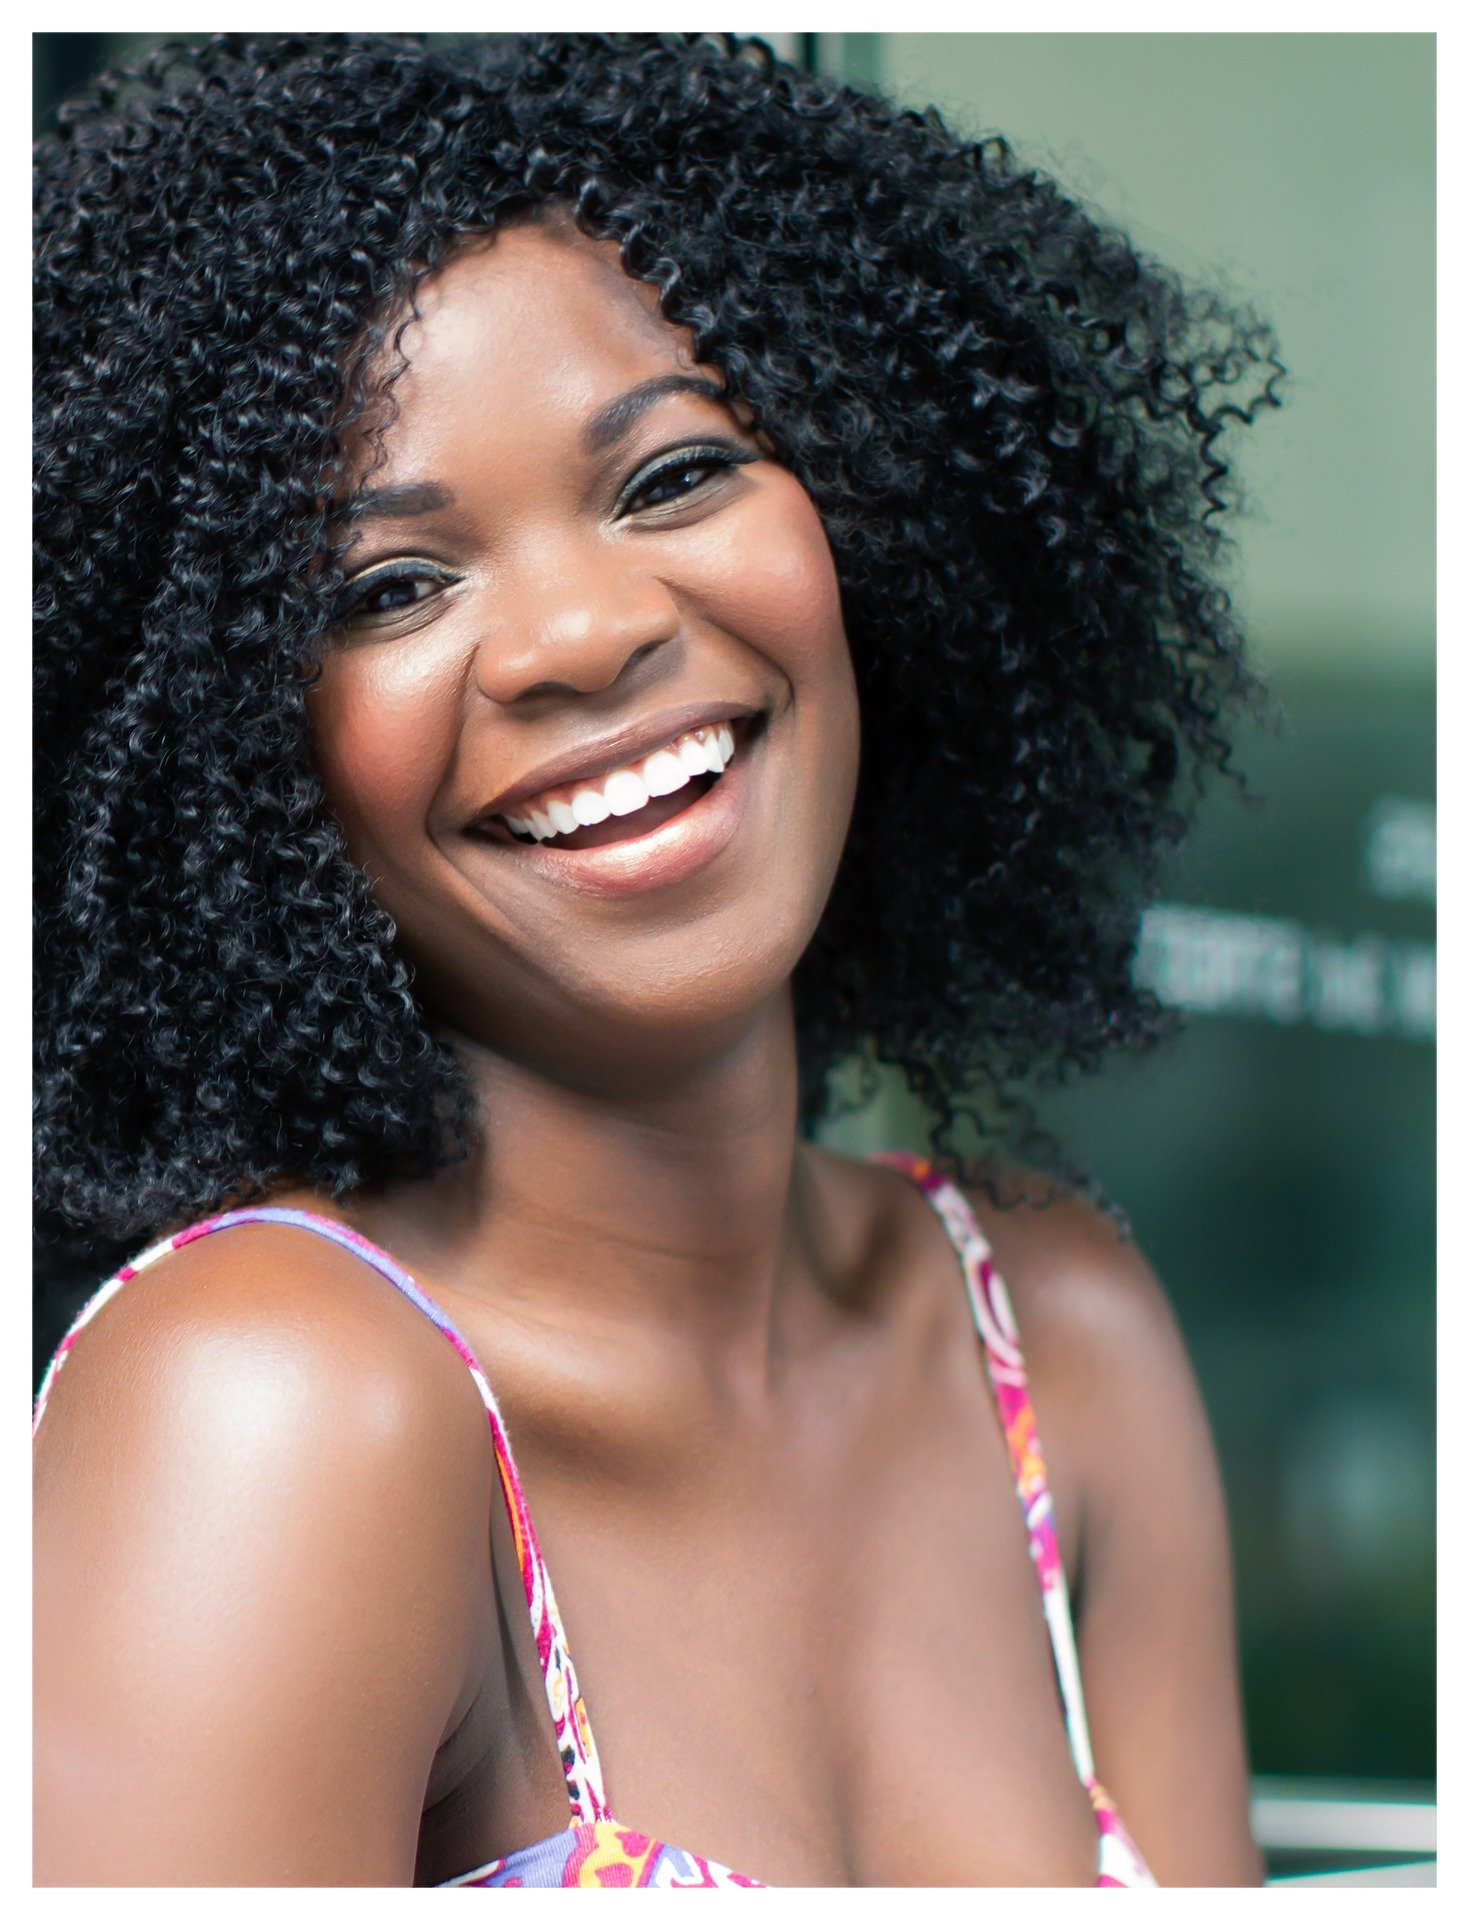
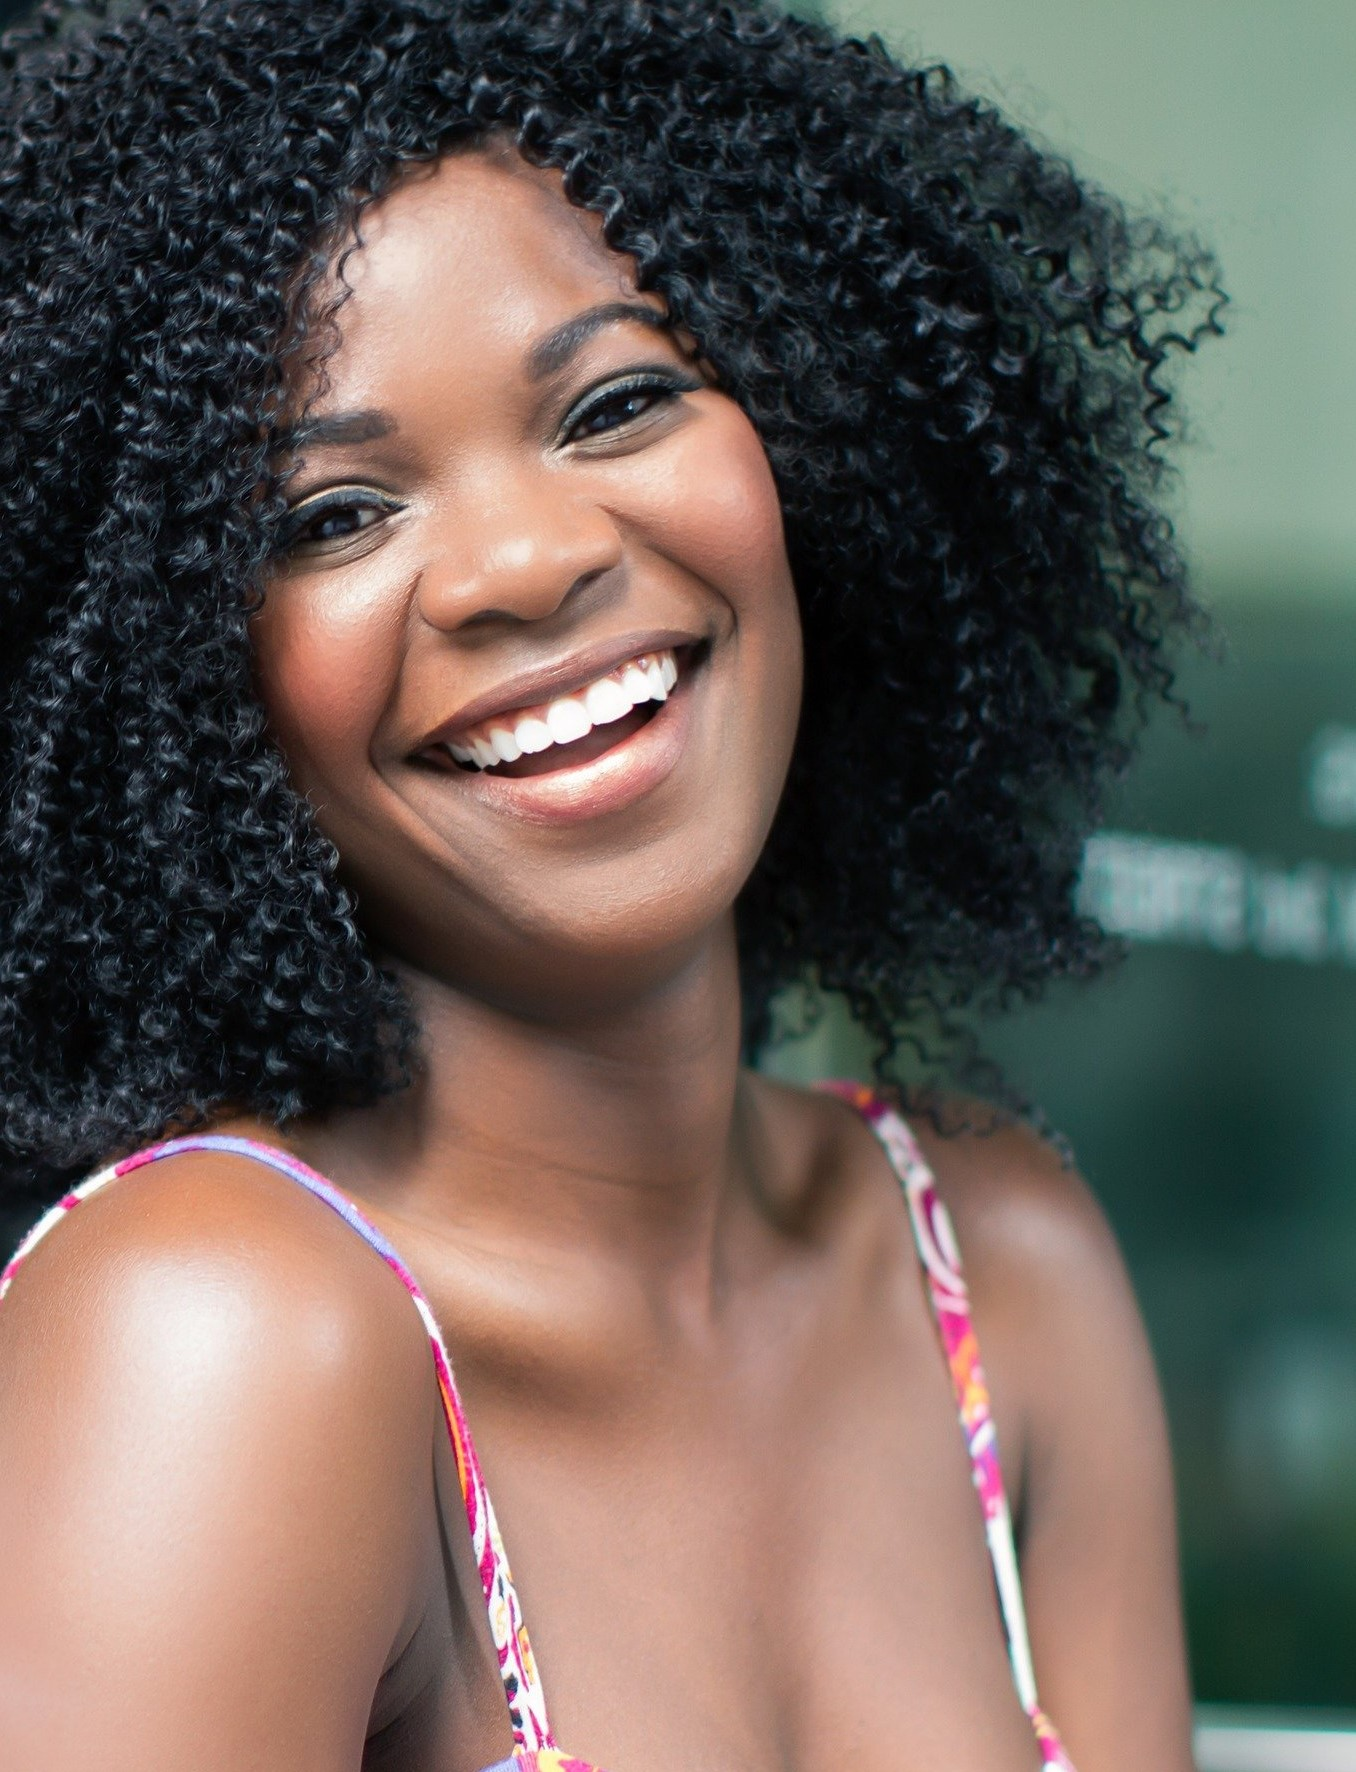
update on artist individual pages

diff --git a/styles/_artists.css b/styles/_artists.css
@@ -1,1 +1,1 @@
-body{max-width:1440px;width:100%;margin:auto;background-color:black}.artists__main{max-width:100%;color:white;display:-webkit-box;display:-ms-flexbox;display:flex;-webkit-box-orient:vertical;-webkit-box-direction:normal;-ms-flex-direction:column;flex-direction:column;-webkit-box-align:center;-ms-flex-align:center;align-items:center;-webkit-box-pack:justify;-ms-flex-pack:justify;justify-content:space-between}.artists__main-artist{max-width:63.3%;-webkit-box-sizing:border-box;box-sizing:border-box;margin-top:15px;display:-ms-grid;display:grid;-ms-grid-columns:50% 30px 50%;grid-template-columns:repeat(2,50%);-ms-grid-rows:450px 30px 450px 30px 450px 30px 450px 30px 450px 30px 450px 30px 450px 30px 450px 30px 450px 30px 450px 30px 450px 30px 450px 30px 450px;grid-template-rows:repeat(13,450px);grid-gap:30px;margin-top:50px}.artists__main-artist>:first-child{-ms-grid-row:1;-ms-grid-column:1}.artists__main-artist>:nth-child(2){-ms-grid-row:1;-ms-grid-column:3}.artists__main-artist>:nth-child(3){-ms-grid-row:3;-ms-grid-column:1}.artists__main-artist>:nth-child(4){-ms-grid-row:3;-ms-grid-column:3}.artists__main-artist>:nth-child(5){-ms-grid-row:5;-ms-grid-column:1}.artists__main-artist>:nth-child(6){-ms-grid-row:5;-ms-grid-column:3}.artists__main-artist>:nth-child(7){-ms-grid-row:7;-ms-grid-column:1}.artists__main-artist>:nth-child(8){-ms-grid-row:7;-ms-grid-column:3}.artists__main-artist>:nth-child(9){-ms-grid-row:9;-ms-grid-column:1}.artists__main-artist>:nth-child(10){-ms-grid-row:9;-ms-grid-column:3}.artists__main-artist>:nth-child(11){-ms-grid-row:11;-ms-grid-column:1}.artists__main-artist>:nth-child(12){-ms-grid-row:11;-ms-grid-column:3}.artists__main-artist>:nth-child(13){-ms-grid-row:13;-ms-grid-column:1}.artists__main-artist>:nth-child(14){-ms-grid-row:13;-ms-grid-column:3}.artists__main-artist>:nth-child(15){-ms-grid-row:15;-ms-grid-column:1}.artists__main-artist>:nth-child(16){-ms-grid-row:15;-ms-grid-column:3}.artists__main-artist>:nth-child(17){-ms-grid-row:17;-ms-grid-column:1}.artists__main-artist>:nth-child(18){-ms-grid-row:17;-ms-grid-column:3}.artists__main-artist>:nth-child(19){-ms-grid-row:19;-ms-grid-column:1}.artists__main-artist>:nth-child(20){-ms-grid-row:19;-ms-grid-column:3}.artists__main-artist>:nth-child(21){-ms-grid-row:21;-ms-grid-column:1}.artists__main-artist>:nth-child(22){-ms-grid-row:21;-ms-grid-column:3}.artists__main-artist>:nth-child(23){-ms-grid-row:23;-ms-grid-column:1}.artists__main-artist>:nth-child(24){-ms-grid-row:23;-ms-grid-column:3}.artists__main-artist>:nth-child(25){-ms-grid-row:25;-ms-grid-column:1}.artists__main-artist>:nth-child(26){-ms-grid-row:25;-ms-grid-column:3}.artists__main-artist .img-left{-ms-grid-column:1;-ms-grid-column-span:1;grid-column:1/2}.artists__main-artist .img-right{-ms-grid-column:2;-ms-grid-column-span:1;grid-column:2/3}.artists__main-artist .txt-right{-ms-grid-column:2;-ms-grid-column-span:1;grid-column:2/3;-ms-grid-row-align:center;align-self:center}.artists__main-artist .txt-left{-ms-flex-item-align:center;-ms-grid-row-align:center;align-self:center}.artists__main-artist--container-blocks{max-width:45%;-webkit-box-sizing:border-box;box-sizing:border-box}.artists__main-artist--photo{max-width:400px;max-height:400px;border-radius:50%;margin-top:10px}.artists__main-artist a{text-decoration:none;color:white}.artists__main-artist a:hover{color:blue}
+body{max-width:1440px;width:100%;margin:auto;background-color:black;color:white}.artists__main{max-width:100%;color:white;display:-webkit-box;display:-ms-flexbox;display:flex;-webkit-box-orient:vertical;-webkit-box-direction:normal;-ms-flex-direction:column;flex-direction:column;-webkit-box-align:center;-ms-flex-align:center;align-items:center;-webkit-box-pack:justify;-ms-flex-pack:justify;justify-content:space-between}.artists__main-artist{max-width:63.3%;-webkit-box-sizing:border-box;box-sizing:border-box;margin-top:15px;display:-ms-grid;display:grid;-ms-grid-columns:50% 30px 50%;grid-template-columns:repeat(2,50%);-ms-grid-rows:450px 30px 450px 30px 450px 30px 450px 30px 450px 30px 450px 30px 450px 30px 450px 30px 450px 30px 450px 30px 450px 30px 450px 30px 450px;grid-template-rows:repeat(13,450px);grid-gap:30px;margin-top:50px}.artists__main-artist>:first-child{-ms-grid-row:1;-ms-grid-column:1}.artists__main-artist>:nth-child(2){-ms-grid-row:1;-ms-grid-column:3}.artists__main-artist>:nth-child(3){-ms-grid-row:3;-ms-grid-column:1}.artists__main-artist>:nth-child(4){-ms-grid-row:3;-ms-grid-column:3}.artists__main-artist>:nth-child(5){-ms-grid-row:5;-ms-grid-column:1}.artists__main-artist>:nth-child(6){-ms-grid-row:5;-ms-grid-column:3}.artists__main-artist>:nth-child(7){-ms-grid-row:7;-ms-grid-column:1}.artists__main-artist>:nth-child(8){-ms-grid-row:7;-ms-grid-column:3}.artists__main-artist>:nth-child(9){-ms-grid-row:9;-ms-grid-column:1}.artists__main-artist>:nth-child(10){-ms-grid-row:9;-ms-grid-column:3}.artists__main-artist>:nth-child(11){-ms-grid-row:11;-ms-grid-column:1}.artists__main-artist>:nth-child(12){-ms-grid-row:11;-ms-grid-column:3}.artists__main-artist>:nth-child(13){-ms-grid-row:13;-ms-grid-column:1}.artists__main-artist>:nth-child(14){-ms-grid-row:13;-ms-grid-column:3}.artists__main-artist>:nth-child(15){-ms-grid-row:15;-ms-grid-column:1}.artists__main-artist>:nth-child(16){-ms-grid-row:15;-ms-grid-column:3}.artists__main-artist>:nth-child(17){-ms-grid-row:17;-ms-grid-column:1}.artists__main-artist>:nth-child(18){-ms-grid-row:17;-ms-grid-column:3}.artists__main-artist>:nth-child(19){-ms-grid-row:19;-ms-grid-column:1}.artists__main-artist>:nth-child(20){-ms-grid-row:19;-ms-grid-column:3}.artists__main-artist>:nth-child(21){-ms-grid-row:21;-ms-grid-column:1}.artists__main-artist>:nth-child(22){-ms-grid-row:21;-ms-grid-column:3}.artists__main-artist>:nth-child(23){-ms-grid-row:23;-ms-grid-column:1}.artists__main-artist>:nth-child(24){-ms-grid-row:23;-ms-grid-column:3}.artists__main-artist>:nth-child(25){-ms-grid-row:25;-ms-grid-column:1}.artists__main-artist>:nth-child(26){-ms-grid-row:25;-ms-grid-column:3}.artists__main-artist .img-left{-ms-grid-column:1;-ms-grid-column-span:1;grid-column:1/2}.artists__main-artist .img-right{-ms-grid-column:2;-ms-grid-column-span:1;grid-column:2/3}.artists__main-artist .txt-right{-ms-grid-column:2;-ms-grid-column-span:1;grid-column:2/3;-ms-grid-row-align:center;align-self:center}.artists__main-artist .txt-left{-ms-flex-item-align:center;-ms-grid-row-align:center;align-self:center}.artists__main-artist--container-blocks{max-width:45%;-webkit-box-sizing:border-box;box-sizing:border-box}.artists__main-artist--photo{max-width:400px;max-height:400px;border-radius:50%;margin-top:10px}.artists__main-artist a{text-decoration:none;color:white;-webkit-transition:0.3s ease-in-out;transition:0.3s ease-in-out}.artists__main-artist a:hover{color:#59C9A5;-webkit-transform:scale(1.1);transform:scale(1.1)}.artists__main-artist img{-webkit-transition:0.3s ease-in-out;transition:0.3s ease-in-out}.artists__main-artist img:hover{-webkit-transform:scale(1.01);transform:scale(1.01)}.artist-page__main{background-image:url(../images/artists/artist-01.jpg);background-size:cover;background-color:rgba(0,0,0,0.9);display:-ms-grid;display:grid;-ms-grid-columns:(50%)[2];grid-template-columns:repeat(2,50%)}.artist-page__main-info{display:-ms-grid;display:grid;-ms-grid-columns:(50%)[2];grid-template-columns:repeat(2,50%)}.artist-page-img{max-height:100vh;height:100%;position:sticky}

diff --git a/pages/artists/artist-01.html b/pages/artists/artist-01.html
@@ -5,17 +5,23 @@
     <meta http-equiv="X-UA-Compatible" content="IE=edge">
     <meta name="viewport" content="width=device-width, initial-scale=1.0">
     <link rel="stylesheet" href="../../styles/normalize.css">
-    <link rel="stylesheet" href="../../styles/index.css">
+    <link rel="stylesheet" href="../../styles/_artists-page.css">
     <title>IRIS PRIEST</title>
 </head>
 <body>
+    <section class="artist-page__main">    
     
-    <section class="artist-page__main">
-        <div class="artist-page__main-info">
-            <img src="../../images/artists/artist-01.jpg" alt="" class="artist-page__main-info--image">
-            <h1 class="artist-page__main-info--title">
+    <img src="../../images/artists/artist-page-01.jpg" alt="" class="artist-page-img">
+
+
+    
+            <h1 class="artist-page__main-title">
                 Iris Priest
-            </h1>
+            </h1>    
+            
+        <div class="artist-page__main-info">        
+        
+
             <h3 class="artist-page__main-info--text">
                 Lorem, ipsum dolor sit amet consectetur adipisicing elit. 
                 Placeat quidem, quae nobis, veritatis corporis delectus est qui 

diff --git a/styles/_artists.scss b/styles/_artists.scss
@@ -3,6 +3,7 @@ body {
     width: 100%;
     margin: auto;
     background-color: black;
+    color: white;
 }
 
 .artists__main {
@@ -55,11 +56,46 @@ body {
             a {
                 text-decoration: none;
                 color: white;
+                transition: 0.3s ease-in-out;
+
+                &:hover {
+                    color: #59C9A5;
+                    transform: scale(1.1);
+                }            
             }
 
-            a:hover {
-                color: blue;
+            img {
+                transition: 0.3s ease-in-out;
+            }
+
+            img:hover {
+                transform: scale(1.01);
+
             }
     }
 
+}
+
+
+.artist-page__main {
+    background-image: url(../images/artists/artist-01.jpg);
+    background-size: cover;
+    background-color: rgba($color: #000000, $alpha: 0.9);
+    display: grid;
+    grid-template-columns: repeat(2, 50%);
+
+
+    &-info {
+        display: grid;
+        grid-template-columns: repeat(2, 50%);
+    }
+
+
+
+}
+
+.artist-page-img {
+    max-height: 100vh;
+    height: 100%;
+    position: sticky;
 }

diff --git a/pages/artists.html b/pages/artists.html
@@ -72,7 +72,7 @@
             <!-- <div class="artists__main-artist--container-blocks"> -->
                 <div class="txt-left">
                     <a href="artists/artist-04.html">               
-                        <h3 class="artists__main-artist--name">Flight Of The Purple Cats (FotPC)</h3>
+                        <h3 class="artists__main-artist--name">Flight Of The Purple Cats</h3>
                         <p class="artists__main-artist--info">Lorem, ipsum dolor sit amet consectetur adipisicing elit. 
                             Esse recusandae tenetur vel dolore, quas officiis minima reprehenderit officia consectetur in! 
                             Error a, sapiente voluptatum nulla facere eveniet? Doloribus, nostrum odit.

diff --git a/styles/_artists-page.css b/styles/_artists-page.css
@@ -1,0 +1,27 @@
+body {
+  background-image: url(../images/artists/artist-01.jpg);
+  background-size: cover;
+  color: white;
+}
+
+.artist-page__main {
+  max-height: 100vh;
+  height: 100%;
+  background-color: rgba(0, 0, 0, 0.7);
+  display: -ms-grid;
+  display: grid;
+  -ms-grid-columns: (50%)[2];
+  grid-template-columns: repeat(2, 50%);
+}
+.artist-page__main-info {
+  display: -ms-grid;
+  display: grid;
+  -ms-grid-columns: (50%)[2];
+  grid-template-columns: repeat(2, 50%);
+}
+
+.artist-page-img {
+  max-height: 700px;
+  height: 100%;
+  position: sticky;
+}

diff --git a/styles/_artists-page.scss b/styles/_artists-page.scss
@@ -1,0 +1,29 @@
+body {
+    background-image: url(../images/artists/artist-01.jpg);
+    background-size: cover;
+    color: white;
+
+}
+
+.artist-page__main {
+    max-height: 100vh;
+    height: 100%;
+    background-color: rgba($color: #000000, $alpha: 0.7);
+    display: grid;
+    grid-template-columns: repeat(2, 50%);
+
+
+    &-info {
+        display: grid;
+        grid-template-columns: repeat(2, 50%);
+    }
+
+
+
+}
+
+.artist-page-img {
+    max-height: 700px;
+    height: 100%;
+    position: sticky;
+}

diff --git a/pages/artists/artist-04.html b/pages/artists/artist-04.html
@@ -12,7 +12,7 @@
     
     <section class="artist-page__main">
         <div class="artist-page__main-info">
-            <img src="../../images/artists/artist-04.jpg" alt="" class="artist-page__main-info--image">
+            <img src="../../images/artists/artist-page-04.jpg" alt="" class="artist-page__main-info--image">
             <h1 class="artist-page__main-info--title">
                 Flight Of The Purple Cats
             </h1>

diff --git a/pages/artists/artist-05.html b/pages/artists/artist-05.html
@@ -12,7 +12,7 @@
     
     <section class="artist-page__main">
         <div class="artist-page__main-info">
-            <img src="../../images/artists/artist-05.jpg" alt="" class="artist-page__main-info--image">
+            <img src="../../images/artists/artist-page-05.jpg" alt="" class="artist-page__main-info--image">
             <h1 class="artist-page__main-info--title">
                 Kathleen Griffin
             </h1>

diff --git a/pages/artists/artist-07.html b/pages/artists/artist-07.html
@@ -12,7 +12,7 @@
     
     <section class="artist-page__main">
         <div class="artist-page__main-info">
-            <img src="../../images/artists/artist-07.jpg" alt="" class="artist-page__main-info--image">
+            <img src="../../images/artists/artist-page-07.jpg" alt="" class="artist-page__main-info--image">
             <h1 class="artist-page__main-info--title">
                 Ella-Mae Mahoney
             </h1>

diff --git a/pages/artists/artist-10.html b/pages/artists/artist-10.html
@@ -12,7 +12,7 @@
     
     <section class="artist-page__main">
         <div class="artist-page__main-info">
-            <img src="../../images/artists/artist-10.jpg" alt="" class="artist-page__main-info--image">
+            <img src="../../images/artists/artist-page-10.jpg" alt="" class="artist-page__main-info--image">
             <h1 class="artist-page__main-info--title">
                 Kaycee Knights
             </h1>

diff --git a/pages/artists/artist-13.html b/pages/artists/artist-13.html
@@ -12,7 +12,7 @@
     
     <section class="artist-page__main">
         <div class="artist-page__main-info">
-            <img src="../../images/artists/artist-13.jpg" alt="" class="artist-page__main-info--image">
+            <img src="../../images/artists/artist-page-13.jpg" alt="" class="artist-page__main-info--image">
             <h1 class="artist-page__main-info--title">
                 Nazim Dillard
             </h1>

diff --git a/pages/artists/artist-02.html b/pages/artists/artist-02.html
@@ -12,7 +12,7 @@
     
     <section class="artist-page__main">
         <div class="artist-page__main-info">
-            <img src="../../images/artists/artist-02.jpg" alt="" class="artist-page__main-info--image">
+            <img src="../../images/artists/artist-page-02.jpg" alt="" class="artist-page__main-info--image">
             <h1 class="artist-page__main-info--title">
                 Anash Lucas
             </h1>
